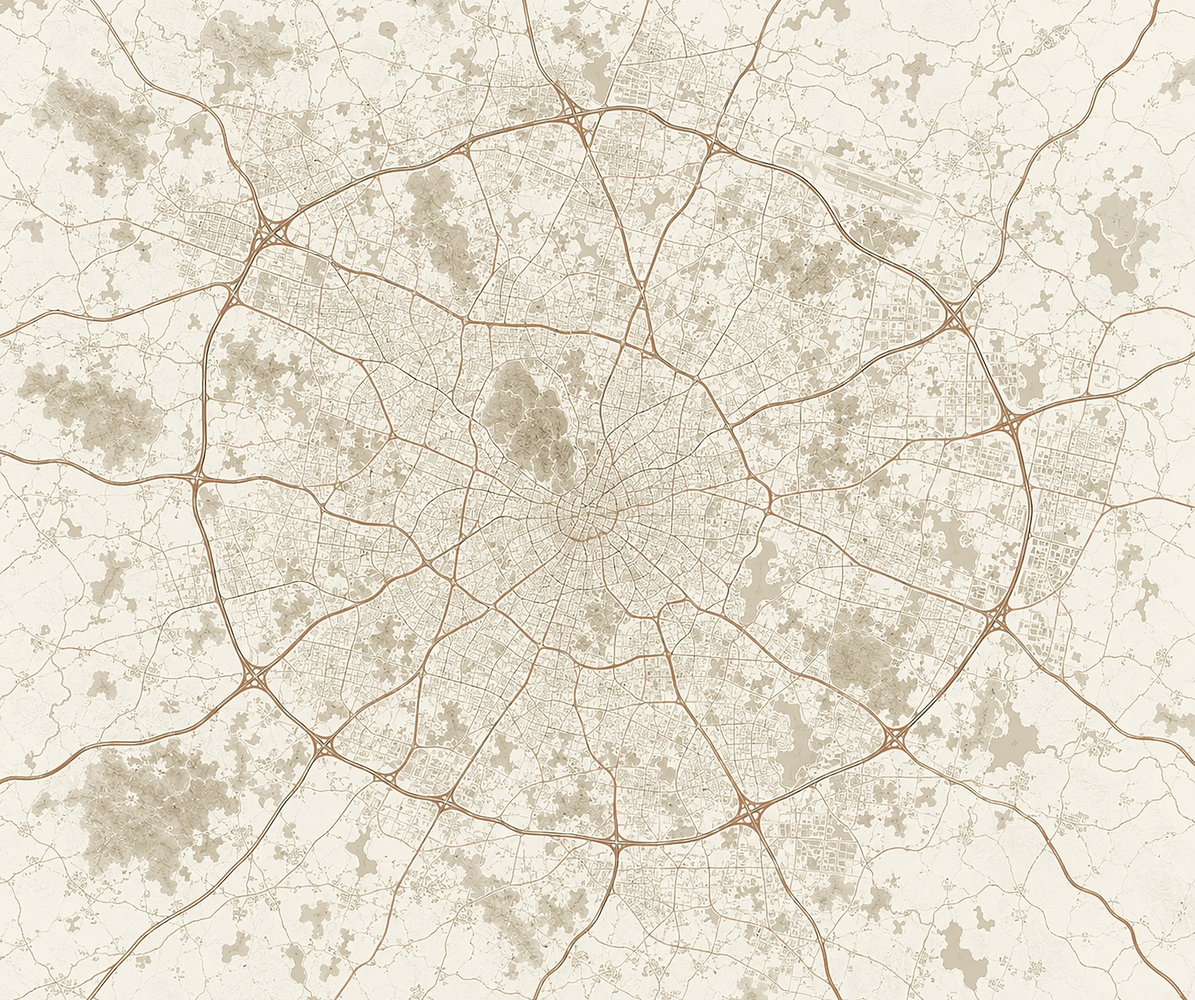
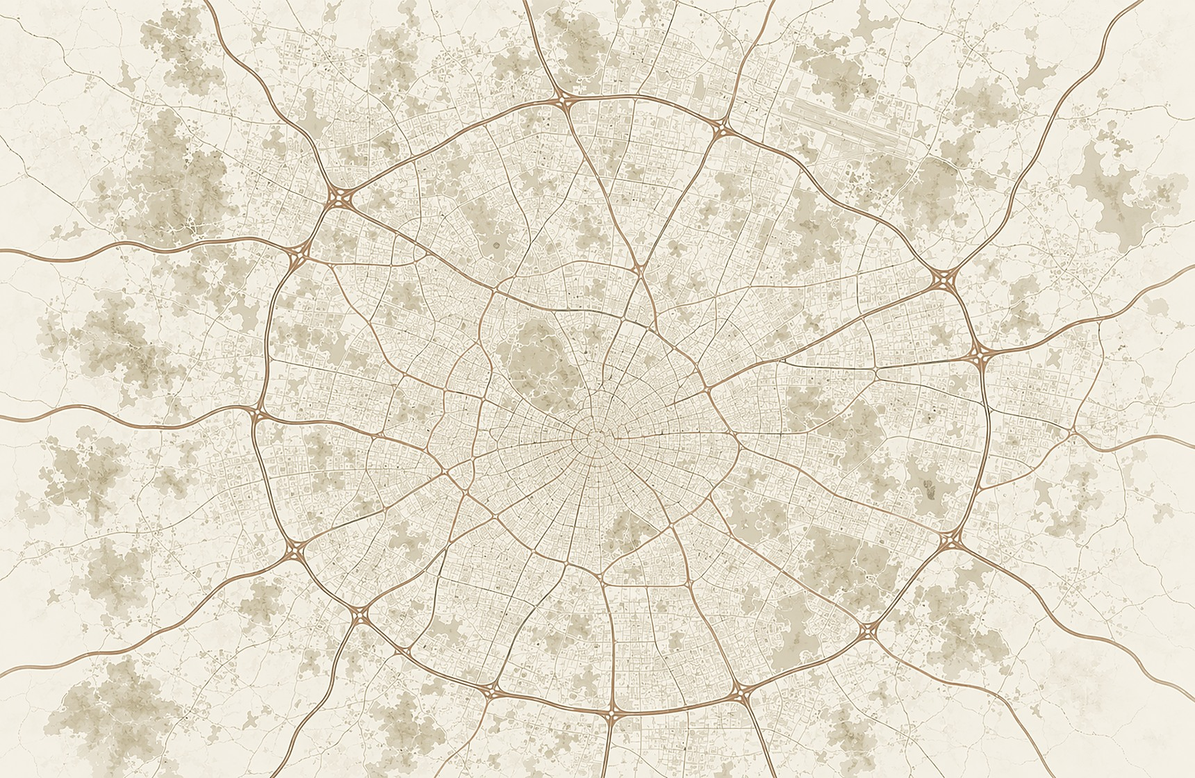
Show the full coverage map image uncropped, widen the frame
- Swap assets/coverage-map.jpg for the clean landscape Bengaluru map
  (no baked-in labels/border this time, matching the site's own pin/label
  system), duotone-treated the same way as before to fit the warm
  cream/ink/bronze palette
- Change coverage-stage aspect-ratio from 860:720 to 860:560 to match this
  image's real proportions exactly, so object-fit:cover no longer crops
  any of it
- Drop the radial fade mask now that nothing needs hiding at the edges
- Widen the stage from max-width 660px to 920px so it reads as a bigger,
  more prominent panel
- Re-tune all 6 pin positions to this image's own road layout

Claude-Session: https://claude.ai/code/session_01PetFpVcJu53ETSKYNNwVEE

diff --git a/index.html b/index.html
@@ -261,13 +261,9 @@
   .coverage-head{max-width:640px;margin-bottom:50px;}
   .coverage-head h2{font-size:clamp(30px,3.4vw,46px);max-width:620px;}
   .coverage-head .lead{color:var(--ink-soft);font-size:15px;margin-top:16px;max-width:520px;}
-  .coverage-stage{position:relative;width:100%;max-width:660px;margin:0 auto;aspect-ratio:860/720;}
+  .coverage-stage{position:relative;width:100%;max-width:920px;margin:0 auto;aspect-ratio:860/560;}
   .coverage-surface{position:absolute;inset:0;background:linear-gradient(160deg,var(--cream-2) 0%,var(--cream) 72%);border:1px solid var(--line);border-radius:22px;overflow:hidden;}
-  .coverage-map-img{
-    position:absolute;inset:0;width:100%;height:100%;object-fit:cover;display:block;opacity:0.92;
-    -webkit-mask-image:radial-gradient(ellipse 62% 62% at 50% 48%, #000 52%, transparent 90%);
-    mask-image:radial-gradient(ellipse 62% 62% at 50% 48%, #000 52%, transparent 90%);
-  }
+  .coverage-map-img{position:absolute;inset:0;width:100%;height:100%;object-fit:cover;display:block;}
   .coverage-tag{position:absolute;font-family:'Inter',sans-serif;font-size:11px;letter-spacing:0.16em;color:var(--bronze);text-transform:uppercase;pointer-events:none;}
   .coverage-tag.city{top:22px;left:26px;}
   .coverage-tag.orr{top:22px;right:26px;text-align:right;}
@@ -697,7 +693,7 @@
         <span class="coverage-tag orr">Outer Ring Road</span>
       </div>
       <div class="coverage-pins">
-        <button type="button" class="pin" data-area="peenya" style="--x:18%;--y:23%;--d:0s">
+        <button type="button" class="pin" data-area="peenya" style="--x:21%;--y:22%;--d:0s">
           <span class="pin-marker"><span class="pin-ring"></span><span class="pin-dot"></span></span>
           <span class="pin-label">Peenya Industrial Belt</span>
           <span class="pin-card">
@@ -713,7 +709,7 @@
             <span class="pin-tags"><em>IT Parks &amp; SEZ</em><em>Educational Institutions</em><em>Malls</em></span>
           </span>
         </button>
-        <button type="button" class="pin" data-area="orr" style="--x:72%;--y:57%;--d:.5s">
+        <button type="button" class="pin" data-area="orr" style="--x:76%;--y:60%;--d:.5s">
           <span class="pin-marker"><span class="pin-ring"></span><span class="pin-dot"></span></span>
           <span class="pin-label">ORR Tech Corridor</span>
           <span class="pin-card">
@@ -721,7 +717,7 @@
             <span class="pin-tags"><em>IT Parks &amp; SEZ</em><em>Corporates</em></span>
           </span>
         </button>
-        <button type="button" class="pin" data-area="cbd" style="--x:46%;--y:43%;--d:.75s">
+        <button type="button" class="pin" data-area="cbd" style="--x:46%;--y:44%;--d:.75s">
           <span class="pin-marker"><span class="pin-ring"></span><span class="pin-dot"></span></span>
           <span class="pin-label">MG Road / UB City</span>
           <span class="pin-card">
@@ -729,7 +725,7 @@
             <span class="pin-tags"><em>Commercial Real Estate</em><em>Hospitality</em><em>Retail Outlets</em></span>
           </span>
         </button>
-        <button type="button" class="pin" data-area="koramangala" style="--x:53%;--y:63%;--d:1s">
+        <button type="button" class="pin" data-area="koramangala" style="--x:54%;--y:63%;--d:1s">
           <span class="pin-marker"><span class="pin-ring"></span><span class="pin-dot"></span></span>
           <span class="pin-label">Koramangala</span>
           <span class="pin-card">
@@ -737,7 +733,7 @@
             <span class="pin-tags"><em>Corporates</em><em>Healthcare Facilities</em><em>Hospitality</em></span>
           </span>
         </button>
-        <button type="button" class="pin" data-area="electronic-city" style="--x:52%;--y:88%;--d:1.25s">
+        <button type="button" class="pin" data-area="electronic-city" style="--x:51%;--y:88%;--d:1.25s">
           <span class="pin-marker"><span class="pin-ring"></span><span class="pin-dot"></span></span>
           <span class="pin-label">Electronic City</span>
           <span class="pin-card">
